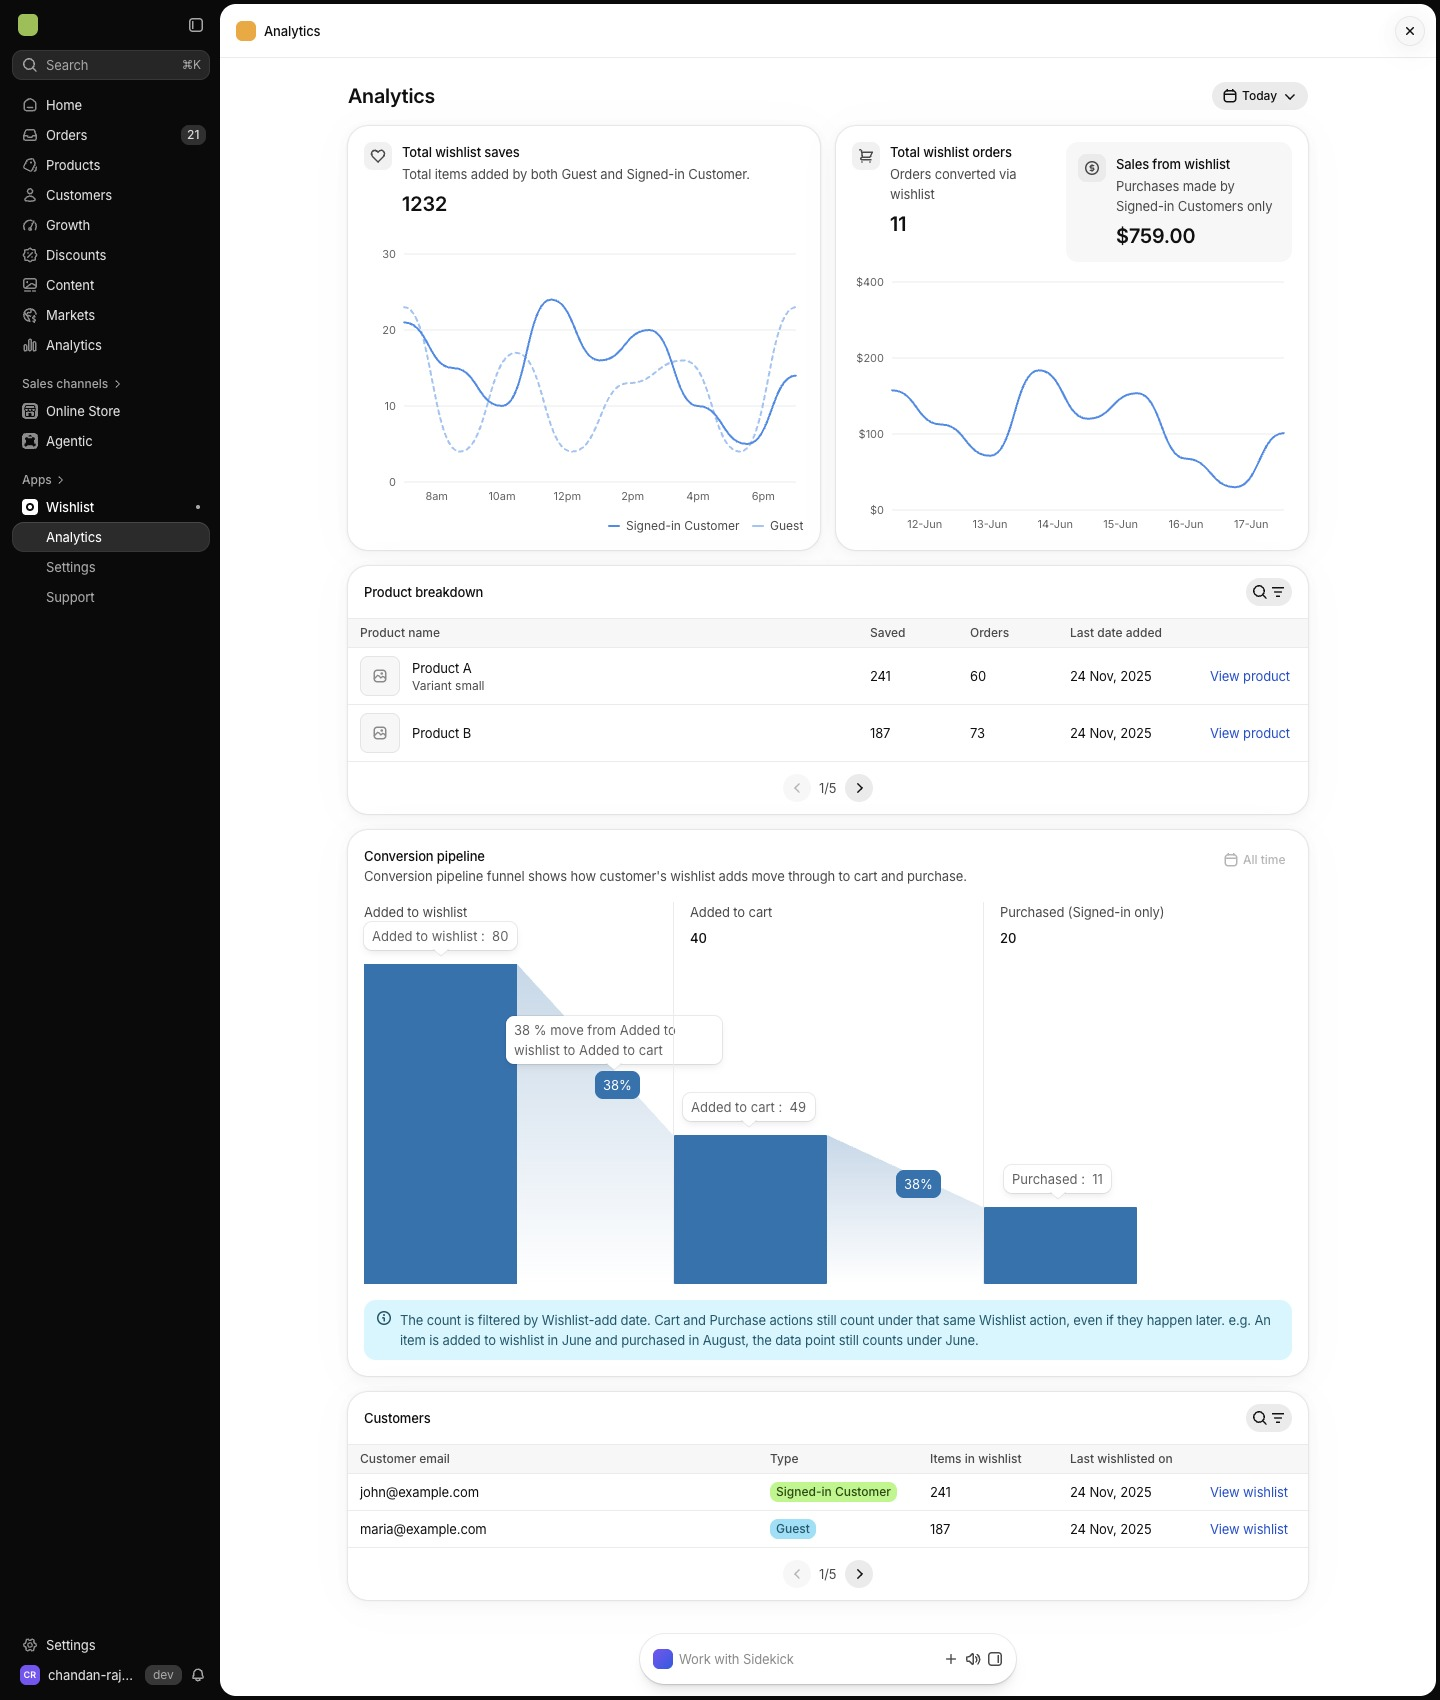
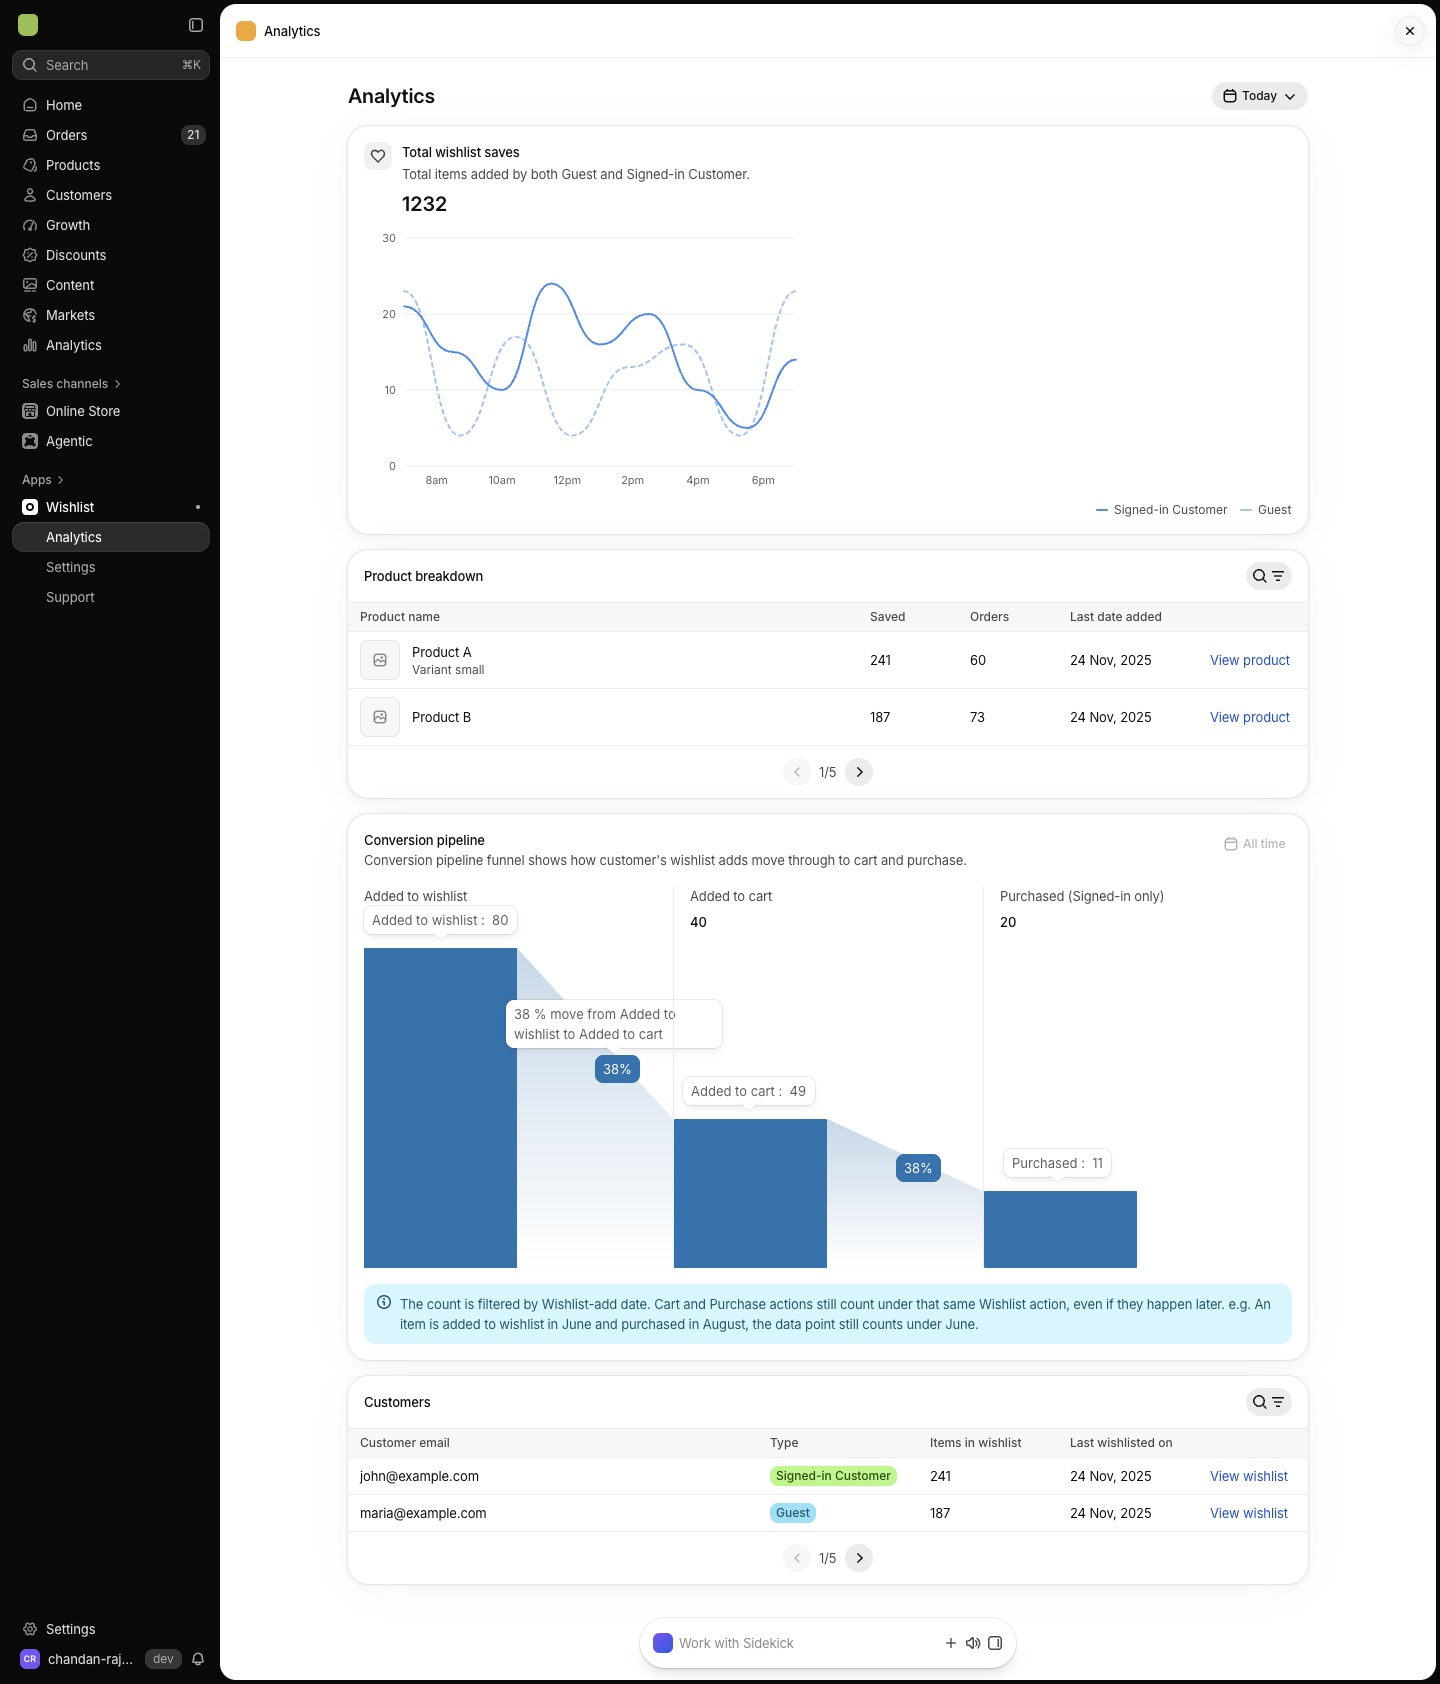
feat(analytics): remove wishlist orders and sales card per updated design
The updated S10 frame drops the Total wishlist orders / Sales from wishlist
card; the saves card is now full width.

diff --git a/app/routes/app.analytics.html b/app/routes/app.analytics.html
@@ -21,55 +21,27 @@
       <s-button>All time</s-button>
     </s-menu>
 
-    <s-grid gridTemplateColumns="repeat(auto-fit, minmax(320px, 1fr))" gap="base">
-      <s-section>
-        <s-stack gap="base">
-          <s-stack direction="inline" gap="small-300" alignItems="start">
-            <s-icon type="heart"></s-icon>
-            <s-stack gap="small-200">
-              <s-heading>Total wishlist saves</s-heading>
-              <s-text>Total items added by both Guest and Signed-in Customer.</s-text>
-              <s-text type="strong"><span class="metric" id="saves-total"></span></s-text>
-            </s-stack>
-          </s-stack>
-          <div id="saves-chart"></div>
-          <s-stack direction="inline" gap="base" justifyContent="end">
-            <s-stack direction="inline" gap="small-200" alignItems="center">
-              <span class="legend-swatch"></span><s-text>Signed-in Customer</s-text>
-            </s-stack>
-            <s-stack direction="inline" gap="small-200" alignItems="center">
-              <span class="legend-swatch dashed"></span><s-text>Guest</s-text>
-            </s-stack>
+    <s-section>
+      <s-stack gap="base">
+        <s-stack direction="inline" gap="small-300" alignItems="start">
+          <s-icon type="heart"></s-icon>
+          <s-stack gap="small-200">
+            <s-heading>Total wishlist saves</s-heading>
+            <s-text>Total items added by both Guest and Signed-in Customer.</s-text>
+            <s-text type="strong"><span class="metric" id="saves-total"></span></s-text>
           </s-stack>
         </s-stack>
-      </s-section>
-
-      <s-section>
-        <s-stack gap="base">
-          <s-grid gridTemplateColumns="1fr 1fr" gap="base" alignItems="start">
-            <s-stack direction="inline" gap="small-300" alignItems="start">
-              <s-icon type="cart"></s-icon>
-              <s-stack gap="small-200">
-                <s-heading>Total wishlist orders</s-heading>
-                <s-text>Orders converted via wishlist</s-text>
-                <s-text type="strong"><span class="metric" id="orders-total"></span></s-text>
-              </s-stack>
-            </s-stack>
-            <s-box padding="base" background="subdued" borderRadius="large">
-              <s-stack direction="inline" gap="small-300" alignItems="start">
-                <s-icon type="cash-dollar"></s-icon>
-                <s-stack gap="small-200">
-                  <s-heading>Sales from wishlist</s-heading>
-                  <s-text>Purchases made by Signed-in Customers only</s-text>
-                  <s-text type="strong"><span class="metric" id="sales-total"></span></s-text>
-                </s-stack>
-              </s-stack>
-            </s-box>
-          </s-grid>
-          <div id="sales-chart"></div>
+        <s-box maxInlineSize="440px"><div id="saves-chart"></div></s-box>
+        <s-stack direction="inline" gap="base" justifyContent="end">
+          <s-stack direction="inline" gap="small-200" alignItems="center">
+            <span class="legend-swatch"></span><s-text>Signed-in Customer</s-text>
+          </s-stack>
+          <s-stack direction="inline" gap="small-200" alignItems="center">
+            <span class="legend-swatch dashed"></span><s-text>Guest</s-text>
+          </s-stack>
         </s-stack>
-      </s-section>
-    </s-grid>
+      </s-stack>
+    </s-section>
 
     <s-section heading="Product breakdown" padding="none">
       <s-table paginate hasNextPage>
@@ -168,22 +140,12 @@
     const { lineChart, funnel } = window.WishlistCharts;
 
     document.getElementById('saves-total').textContent = data.saves.total;
-    document.getElementById('orders-total').textContent = data.orders.total;
-    document.getElementById('sales-total').textContent = data.orders.sales;
 
     lineChart(document.getElementById('saves-chart'), {
       label: 'Wishlist saves by hour, Signed-in Customer vs Guest',
       yTicks: [0, 10, 20, 30],
       xLabels: data.saves.xLabels,
       series: [{ values: data.saves.guest, dashed: true }, { values: data.saves.signedIn }],
-    });
-
-    lineChart(document.getElementById('sales-chart'), {
-      label: 'Sales from wishlist by day',
-      yTicks: [0, 100, 200, 300],
-      yFormat: v => `$${v}`,
-      xLabels: data.orders.xLabels,
-      series: [{ values: data.orders.salesByDay }],
     });
 
     document.getElementById('funnel-headers').innerHTML = data.funnel.map(s => `

diff --git a/app/data/analytics.sample.js b/app/data/analytics.sample.js
@@ -7,12 +7,6 @@ window.SampleData.analytics = {
     signedIn: [21, 15, 10, 24, 16, 20, 10, 5, 14],
     guest: [23, 4, 17, 4, 13, 16, 4, 23],
   },
-  orders: {
-    total: 11,
-    sales: '$759.00',
-    xLabels: ['12-Jun', '13-Jun', '14-Jun', '15-Jun', '16-Jun', '17-Jun'],
-    salesByDay: [157, 112, 71, 184, 120, 154, 67, 30, 101],
-  },
   funnel: [
     { label: 'Added to wishlist', tip: 'Added to wishlist', value: 80 },
     { label: 'Added to cart', tip: 'Added to cart', value: 40 },
